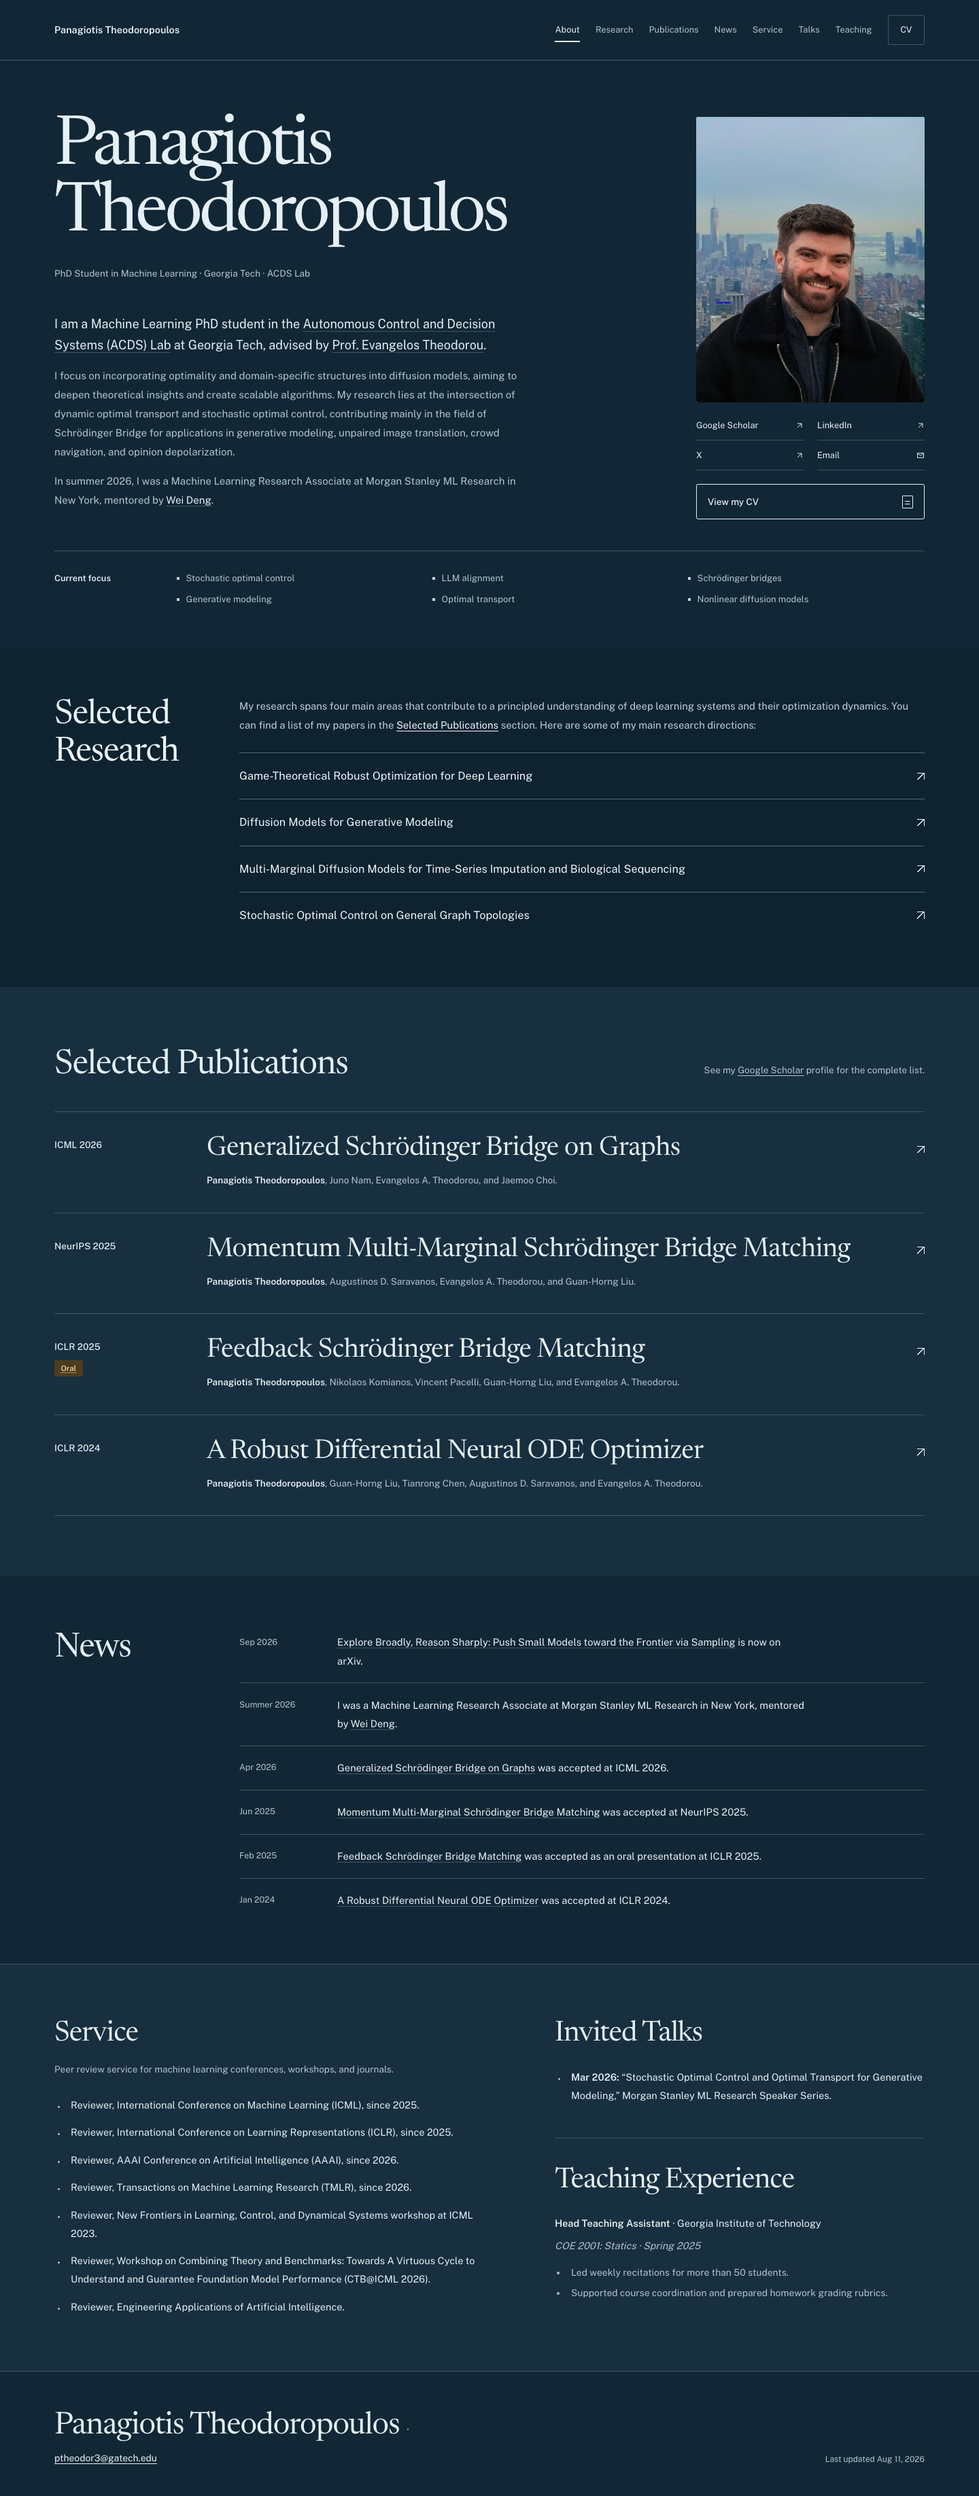
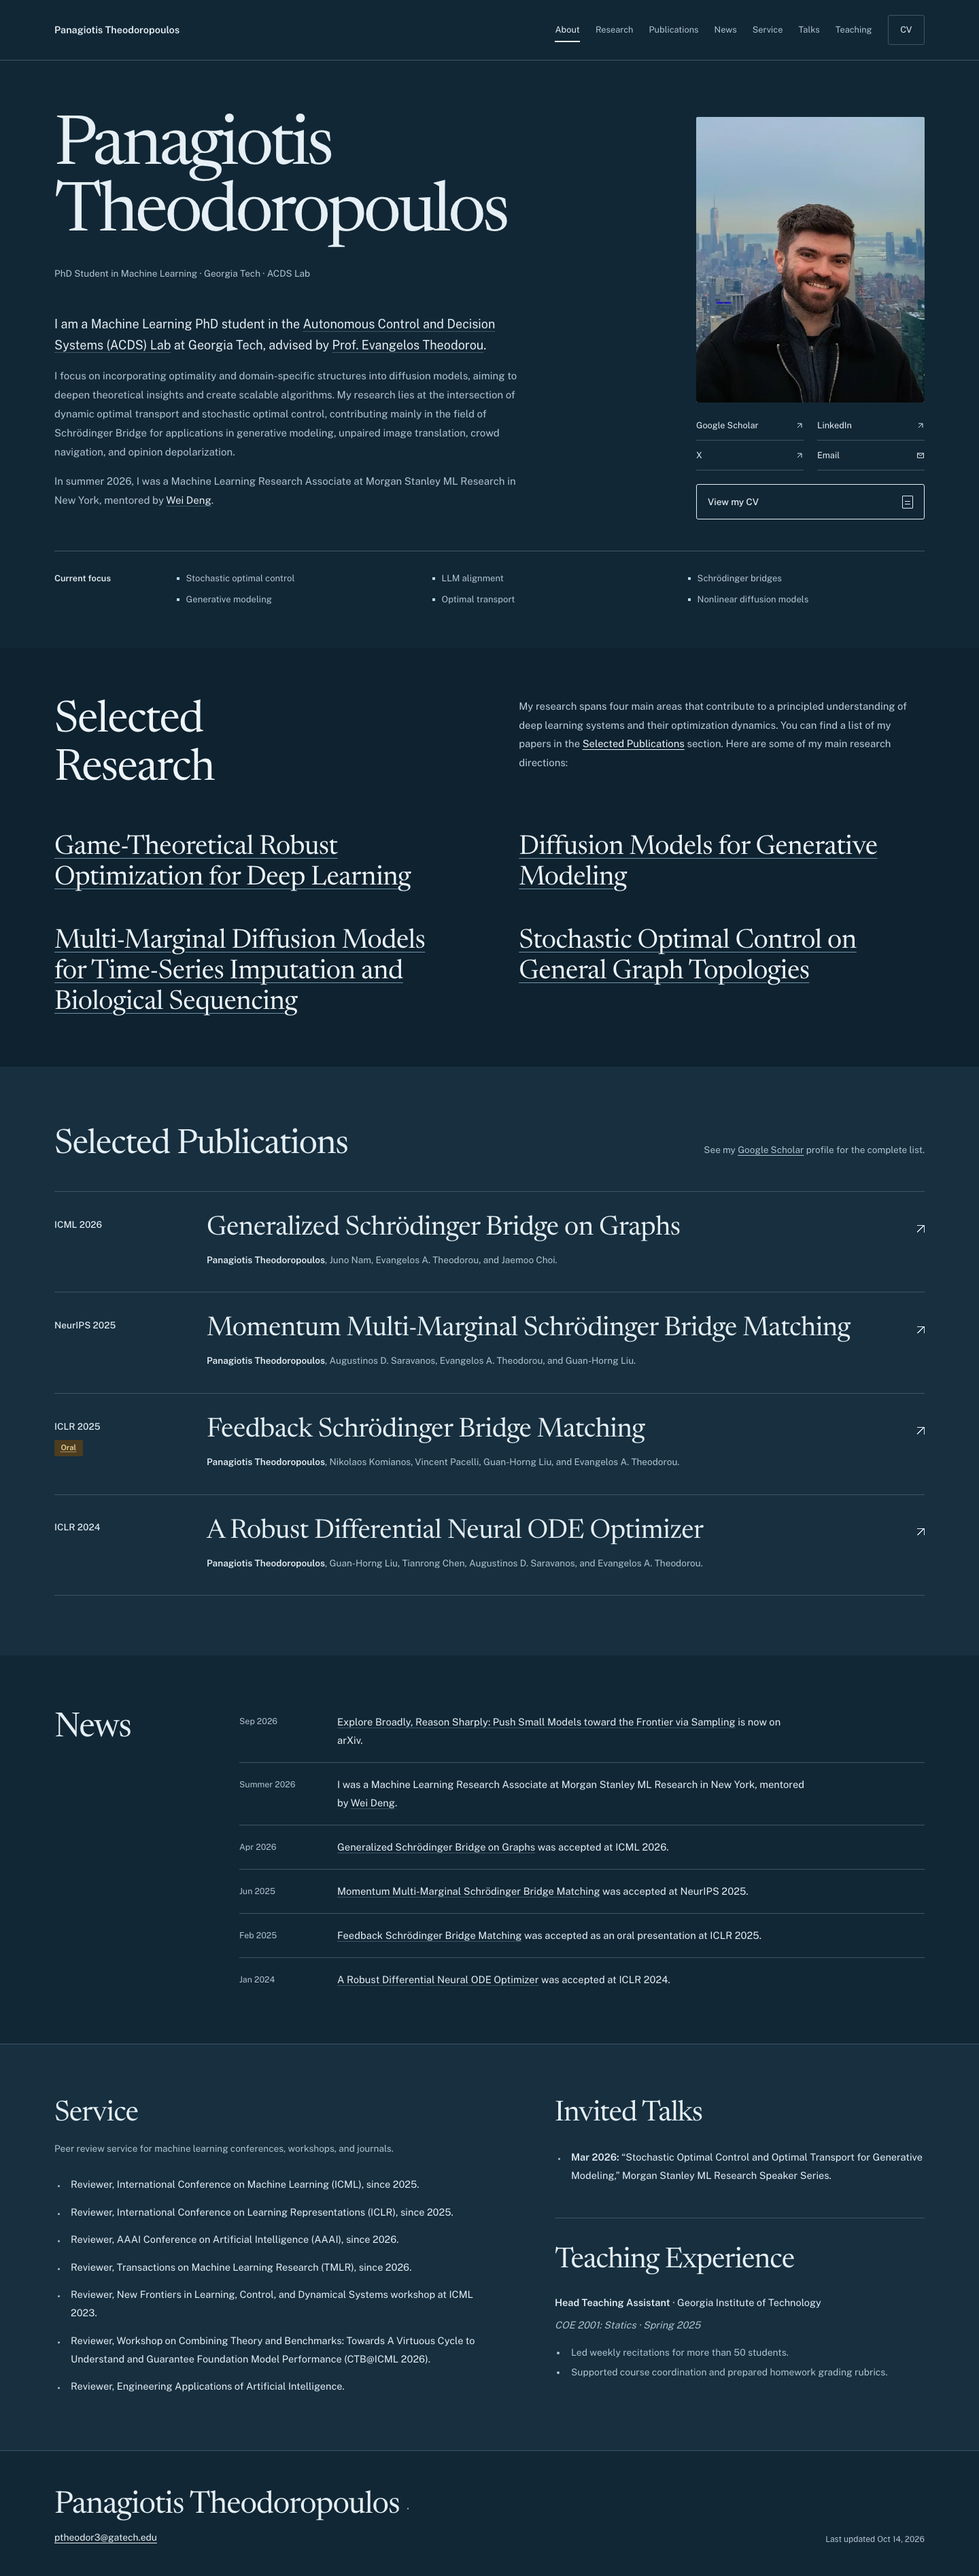
Give selected research a prominent typographic layout

diff --git a/assets/site.css b/assets/site.css
@@ -275,24 +275,40 @@ h1 span { display: block; }
   color: var(--research-text);
   background: var(--research);
 }
-.research-grid { display: grid; grid-template-columns: 14rem minmax(0, 1fr); gap: 3rem; }
-.research-grid .section-header { align-self: start; }
-.research-copy { margin-bottom: 1.7rem; color: var(--research-muted); font-size: 0.93rem; line-height: 1.85; }
-.research-copy a { color: var(--research-text); }
-.research-list { padding: 0; list-style: none; }
-.research-list li { border-top: 1px solid #4b6b80; }
-.research-list a {
-  display: flex;
-  align-items: center;
-  justify-content: space-between;
-  gap: 2rem;
-  min-height: 4.2rem;
-  padding-block: 1rem;
-  font-size: 1.02rem;
-  line-height: 1.55;
-  text-decoration: none;
+.research-grid {
+  display: grid;
+  grid-template-columns: repeat(2, minmax(0, 1fr));
+  gap: 3.5rem clamp(2rem, 6vw, 6rem);
 }
-.research-list a::after, .publication h3 a::after {
+.research-grid .section-header { align-self: start; }
+.research-grid .section-title { max-width: 10ch; font-size: clamp(2.65rem, 4.5vw, 4.25rem); }
+.research-copy { max-width: 39rem; color: var(--research-muted); font-size: 0.93rem; line-height: 1.85; }
+.research-copy a { color: var(--research-text); }
+.research-list {
+  display: grid;
+  grid-column: 1 / -1;
+  grid-template-columns: repeat(2, minmax(0, 1fr));
+  gap: 3rem clamp(2rem, 6vw, 6rem);
+  padding: 0;
+  list-style: none;
+}
+.research-list h3 {
+  max-width: 28ch;
+  font-family: var(--serif);
+  font-size: clamp(1.75rem, 2.5vw, 2.5rem);
+  line-height: 1.25;
+  letter-spacing: -0.015em;
+}
+.research-list a {
+  display: block;
+  min-block-size: 2.75rem;
+  text-decoration-line: underline;
+  text-decoration-color: #7394a8;
+  text-decoration-thickness: 1px;
+  text-underline-offset: 0.18em;
+  overflow-wrap: break-word;
+}
+.publication h3 a::after {
   flex: 0 0 auto;
   width: 0.6rem;
   height: 0.6rem;
@@ -383,16 +399,16 @@ h1 span { display: block; }
   .hero-social a:hover { border-color: currentColor; }
   .button:hover { color: var(--paper); background: var(--ink); }
   .research-section a:hover { color: #ffffff; }
-  .research-list a:hover { text-decoration: underline; text-underline-offset: 0.25em; }
+  .research-list a:hover { text-decoration-color: currentColor; }
   .publication h3 a:hover { text-decoration: underline; text-decoration-thickness: 1px; }
 }
 
 @media (prefers-reduced-motion: no-preference) {
   html { scroll-behavior: smooth; }
   a, .menu-toggle { transition: color 160ms ease, background-color 160ms ease; }
-  .research-list a::after, .publication h3 a::after { transition: transform 160ms ease; }
+  .publication h3 a::after { transition: transform 160ms ease; }
   @media (hover: hover) {
-    .research-list a:hover::after, .publication h3 a:hover::after { transform: translate(2px, -2px); }
+    .publication h3 a:hover::after { transform: translate(2px, -2px); }
   }
 }
 
@@ -441,7 +457,7 @@ h1 span { display: block; }
   .hero-media { grid-row: 2; }
   h1 { font-size: clamp(3.3rem, 8vw, 5.7rem); }
   .hero-meta { max-width: none; }
-  .research-grid { gap: 2rem; grid-template-columns: 11rem minmax(0, 1fr); }
+
   .focus-block { grid-template-columns: 8rem minmax(0, 1fr); }
   .publications-section .section-header { display: block; }
   .publications-section .section-intro { max-width: none; margin-top: 1rem; }
@@ -477,11 +493,10 @@ h1 span { display: block; }
   .focus-label { margin-bottom: 0.85rem; }
   .focus-list { grid-template-columns: repeat(2, minmax(0, 1fr)); gap: 0.55rem 1.1rem; font-size: 0.78rem; }
   .research-section { padding-block: 3rem; }
-  .research-grid { display: block; }
-  .research-grid .section-header { margin-bottom: 1.5rem; }
-  .research-grid .section-title { max-width: none; font-size: 2.65rem; }
-  .research-copy { margin-bottom: 1.5rem; font-size: 0.9rem; }
-  .research-list a { padding-block: 1.15rem; font-size: 0.95rem; gap: 1.5rem; }
+  .research-grid { grid-template-columns: minmax(0, 1fr); gap: 1.5rem; }
+  .research-grid .section-title { max-width: none; }
+  .research-copy { font-size: 0.9rem; }
+  .research-list { grid-template-columns: minmax(0, 1fr); gap: 2rem; margin-block-start: 1rem; }
   .publications-section { padding-block: 3.25rem; }
   .publications-section .section-header { padding-bottom: 1.7rem; }
   .section-title { font-size: 2.45rem; }
@@ -553,6 +568,8 @@ h1 span { display: block; }
   .research-section { padding-block: 1.5rem; color: #000; background: #fff; border-block: 1px solid #bbb; }
   .research-copy, .research-copy a { color: #000; }
   .research-grid { gap: 2rem; }
+  .research-list h3 { font-size: 18pt; }
+  .research-list li { break-inside: avoid; }
   .section-title, .research-grid .section-title { font-size: 24pt; }
   .publication, .news-list li, .subsection, .teaching-card { break-inside: avoid; }
   .publication { padding-block: 1.1rem; }

diff --git a/dist/client/assets/site.css b/dist/client/assets/site.css
@@ -275,24 +275,40 @@ h1 span { display: block; }
   color: var(--research-text);
   background: var(--research);
 }
-.research-grid { display: grid; grid-template-columns: 14rem minmax(0, 1fr); gap: 3rem; }
-.research-grid .section-header { align-self: start; }
-.research-copy { margin-bottom: 1.7rem; color: var(--research-muted); font-size: 0.93rem; line-height: 1.85; }
-.research-copy a { color: var(--research-text); }
-.research-list { padding: 0; list-style: none; }
-.research-list li { border-top: 1px solid #4b6b80; }
-.research-list a {
-  display: flex;
-  align-items: center;
-  justify-content: space-between;
-  gap: 2rem;
-  min-height: 4.2rem;
-  padding-block: 1rem;
-  font-size: 1.02rem;
-  line-height: 1.55;
-  text-decoration: none;
+.research-grid {
+  display: grid;
+  grid-template-columns: repeat(2, minmax(0, 1fr));
+  gap: 3.5rem clamp(2rem, 6vw, 6rem);
 }
-.research-list a::after, .publication h3 a::after {
+.research-grid .section-header { align-self: start; }
+.research-grid .section-title { max-width: 10ch; font-size: clamp(2.65rem, 4.5vw, 4.25rem); }
+.research-copy { max-width: 39rem; color: var(--research-muted); font-size: 0.93rem; line-height: 1.85; }
+.research-copy a { color: var(--research-text); }
+.research-list {
+  display: grid;
+  grid-column: 1 / -1;
+  grid-template-columns: repeat(2, minmax(0, 1fr));
+  gap: 3rem clamp(2rem, 6vw, 6rem);
+  padding: 0;
+  list-style: none;
+}
+.research-list h3 {
+  max-width: 28ch;
+  font-family: var(--serif);
+  font-size: clamp(1.75rem, 2.5vw, 2.5rem);
+  line-height: 1.25;
+  letter-spacing: -0.015em;
+}
+.research-list a {
+  display: block;
+  min-block-size: 2.75rem;
+  text-decoration-line: underline;
+  text-decoration-color: #7394a8;
+  text-decoration-thickness: 1px;
+  text-underline-offset: 0.18em;
+  overflow-wrap: break-word;
+}
+.publication h3 a::after {
   flex: 0 0 auto;
   width: 0.6rem;
   height: 0.6rem;
@@ -383,16 +399,16 @@ h1 span { display: block; }
   .hero-social a:hover { border-color: currentColor; }
   .button:hover { color: var(--paper); background: var(--ink); }
   .research-section a:hover { color: #ffffff; }
-  .research-list a:hover { text-decoration: underline; text-underline-offset: 0.25em; }
+  .research-list a:hover { text-decoration-color: currentColor; }
   .publication h3 a:hover { text-decoration: underline; text-decoration-thickness: 1px; }
 }
 
 @media (prefers-reduced-motion: no-preference) {
   html { scroll-behavior: smooth; }
   a, .menu-toggle { transition: color 160ms ease, background-color 160ms ease; }
-  .research-list a::after, .publication h3 a::after { transition: transform 160ms ease; }
+  .publication h3 a::after { transition: transform 160ms ease; }
   @media (hover: hover) {
-    .research-list a:hover::after, .publication h3 a:hover::after { transform: translate(2px, -2px); }
+    .publication h3 a:hover::after { transform: translate(2px, -2px); }
   }
 }
 
@@ -441,7 +457,7 @@ h1 span { display: block; }
   .hero-media { grid-row: 2; }
   h1 { font-size: clamp(3.3rem, 8vw, 5.7rem); }
   .hero-meta { max-width: none; }
-  .research-grid { gap: 2rem; grid-template-columns: 11rem minmax(0, 1fr); }
+
   .focus-block { grid-template-columns: 8rem minmax(0, 1fr); }
   .publications-section .section-header { display: block; }
   .publications-section .section-intro { max-width: none; margin-top: 1rem; }
@@ -477,11 +493,10 @@ h1 span { display: block; }
   .focus-label { margin-bottom: 0.85rem; }
   .focus-list { grid-template-columns: repeat(2, minmax(0, 1fr)); gap: 0.55rem 1.1rem; font-size: 0.78rem; }
   .research-section { padding-block: 3rem; }
-  .research-grid { display: block; }
-  .research-grid .section-header { margin-bottom: 1.5rem; }
-  .research-grid .section-title { max-width: none; font-size: 2.65rem; }
-  .research-copy { margin-bottom: 1.5rem; font-size: 0.9rem; }
-  .research-list a { padding-block: 1.15rem; font-size: 0.95rem; gap: 1.5rem; }
+  .research-grid { grid-template-columns: minmax(0, 1fr); gap: 1.5rem; }
+  .research-grid .section-title { max-width: none; }
+  .research-copy { font-size: 0.9rem; }
+  .research-list { grid-template-columns: minmax(0, 1fr); gap: 2rem; margin-block-start: 1rem; }
   .publications-section { padding-block: 3.25rem; }
   .publications-section .section-header { padding-bottom: 1.7rem; }
   .section-title { font-size: 2.45rem; }
@@ -553,6 +568,8 @@ h1 span { display: block; }
   .research-section { padding-block: 1.5rem; color: #000; background: #fff; border-block: 1px solid #bbb; }
   .research-copy, .research-copy a { color: #000; }
   .research-grid { gap: 2rem; }
+  .research-list h3 { font-size: 18pt; }
+  .research-list li { break-inside: avoid; }
   .section-title, .research-grid .section-title { font-size: 24pt; }
   .publication, .news-list li, .subsection, .teaching-card { break-inside: avoid; }
   .publication { padding-block: 1.1rem; }

diff --git a/dist/client/index.html b/dist/client/index.html
@@ -294,21 +294,18 @@
       <div class="container research-grid">
         <div class="section-header">
           <h2 id="research-title" class="section-title">Selected Research</h2>
-
         </div>
 
-        <div class="research-body">
         <p class="research-copy">
           My research spans four main areas that contribute to a principled understanding of deep learning systems and their optimization dynamics. You can find a list of my papers in the <a href="#publications">Selected Publications</a> section. Here are some of my main research directions:
         </p>
 
         <ul role="list" class="research-list">
-          <li><a href="https://openreview.net/forum?id=zbOSJ3CATY" target="_blank" rel="noopener noreferrer">Game-Theoretical Robust Optimization for Deep Learning</a></li>
-          <li><a href="https://arxiv.org/abs/2410.14055" target="_blank" rel="noopener noreferrer">Diffusion Models for Generative Modeling</a></li>
-          <li><a href="https://arxiv.org/abs/2506.10168" target="_blank" rel="noopener noreferrer">Multi-Marginal Diffusion Models for Time-Series Imputation and Biological Sequencing</a></li>
-          <li><a href="https://arxiv.org/abs/2602.04675" target="_blank" rel="noopener noreferrer">Stochastic Optimal Control on General Graph Topologies</a></li>
+          <li><h3><a href="https://openreview.net/forum?id=zbOSJ3CATY" target="_blank" rel="noopener noreferrer">Game-Theoretical Robust Optimization for Deep Learning</a></h3></li>
+          <li><h3><a href="https://arxiv.org/abs/2410.14055" target="_blank" rel="noopener noreferrer">Diffusion Models for Generative Modeling</a></h3></li>
+          <li><h3><a href="https://arxiv.org/abs/2506.10168" target="_blank" rel="noopener noreferrer">Multi-Marginal Diffusion Models for Time-Series Imputation and Biological Sequencing</a></h3></li>
+          <li><h3><a href="https://arxiv.org/abs/2602.04675" target="_blank" rel="noopener noreferrer">Stochastic Optimal Control on General Graph Topologies</a></h3></li>
         </ul>
-        </div>
       </div>
     </section>
 

diff --git a/index.html b/index.html
@@ -294,21 +294,18 @@
       <div class="container research-grid">
         <div class="section-header">
           <h2 id="research-title" class="section-title">Selected Research</h2>
-
         </div>
 
-        <div class="research-body">
         <p class="research-copy">
           My research spans four main areas that contribute to a principled understanding of deep learning systems and their optimization dynamics. You can find a list of my papers in the <a href="#publications">Selected Publications</a> section. Here are some of my main research directions:
         </p>
 
         <ul role="list" class="research-list">
-          <li><a href="https://openreview.net/forum?id=zbOSJ3CATY" target="_blank" rel="noopener noreferrer">Game-Theoretical Robust Optimization for Deep Learning</a></li>
-          <li><a href="https://arxiv.org/abs/2410.14055" target="_blank" rel="noopener noreferrer">Diffusion Models for Generative Modeling</a></li>
-          <li><a href="https://arxiv.org/abs/2506.10168" target="_blank" rel="noopener noreferrer">Multi-Marginal Diffusion Models for Time-Series Imputation and Biological Sequencing</a></li>
-          <li><a href="https://arxiv.org/abs/2602.04675" target="_blank" rel="noopener noreferrer">Stochastic Optimal Control on General Graph Topologies</a></li>
+          <li><h3><a href="https://openreview.net/forum?id=zbOSJ3CATY" target="_blank" rel="noopener noreferrer">Game-Theoretical Robust Optimization for Deep Learning</a></h3></li>
+          <li><h3><a href="https://arxiv.org/abs/2410.14055" target="_blank" rel="noopener noreferrer">Diffusion Models for Generative Modeling</a></h3></li>
+          <li><h3><a href="https://arxiv.org/abs/2506.10168" target="_blank" rel="noopener noreferrer">Multi-Marginal Diffusion Models for Time-Series Imputation and Biological Sequencing</a></h3></li>
+          <li><h3><a href="https://arxiv.org/abs/2602.04675" target="_blank" rel="noopener noreferrer">Stochastic Optimal Control on General Graph Topologies</a></h3></li>
         </ul>
-        </div>
       </div>
     </section>
 

diff --git a/README.md b/README.md
@@ -76,3 +76,5 @@ The Oral explanation uses the [official ICLR 2025 fact sheet](https://media.iclr
 Profile links use aligned text rows with external-link cues and an envelope for email. Desktop uses two columns below the portrait; mobile places four rows beside it and the CV below. Chromium and WebKit checks at 12 widths from 320 to 1920 pixels verify targets of at least 44 × 44 pixels without overlaps, including doubled text. All four links retain visible keyboard focus in DOM order. The grouped text links in [Mother Design on Mobbin](https://mobbin.com/sites/sections/ecbaa0a2-e865-4b45-a5ea-0f67b4cb9794) informed this arrangement.
 
 The footer update date was changed to October 14, 2026 at the owner's request. The preservation checks explicitly allow this date change while retaining the original content fixture.
+
+Selected Research presents the four original directions as prominent linked headings in two columns, stacking on mobile. Open spacing replaces divider rows and trailing arrows. The large research titles in [Overmind on Mobbin](https://mobbin.com/sites/sections/1b665755-3726-48ea-9f9c-32e8c2c7914b) informed the typographic emphasis. Chromium and WebKit checks cover eight widths from 320 to 1920 pixels, doubled text, and keyboard focus through all four links.
